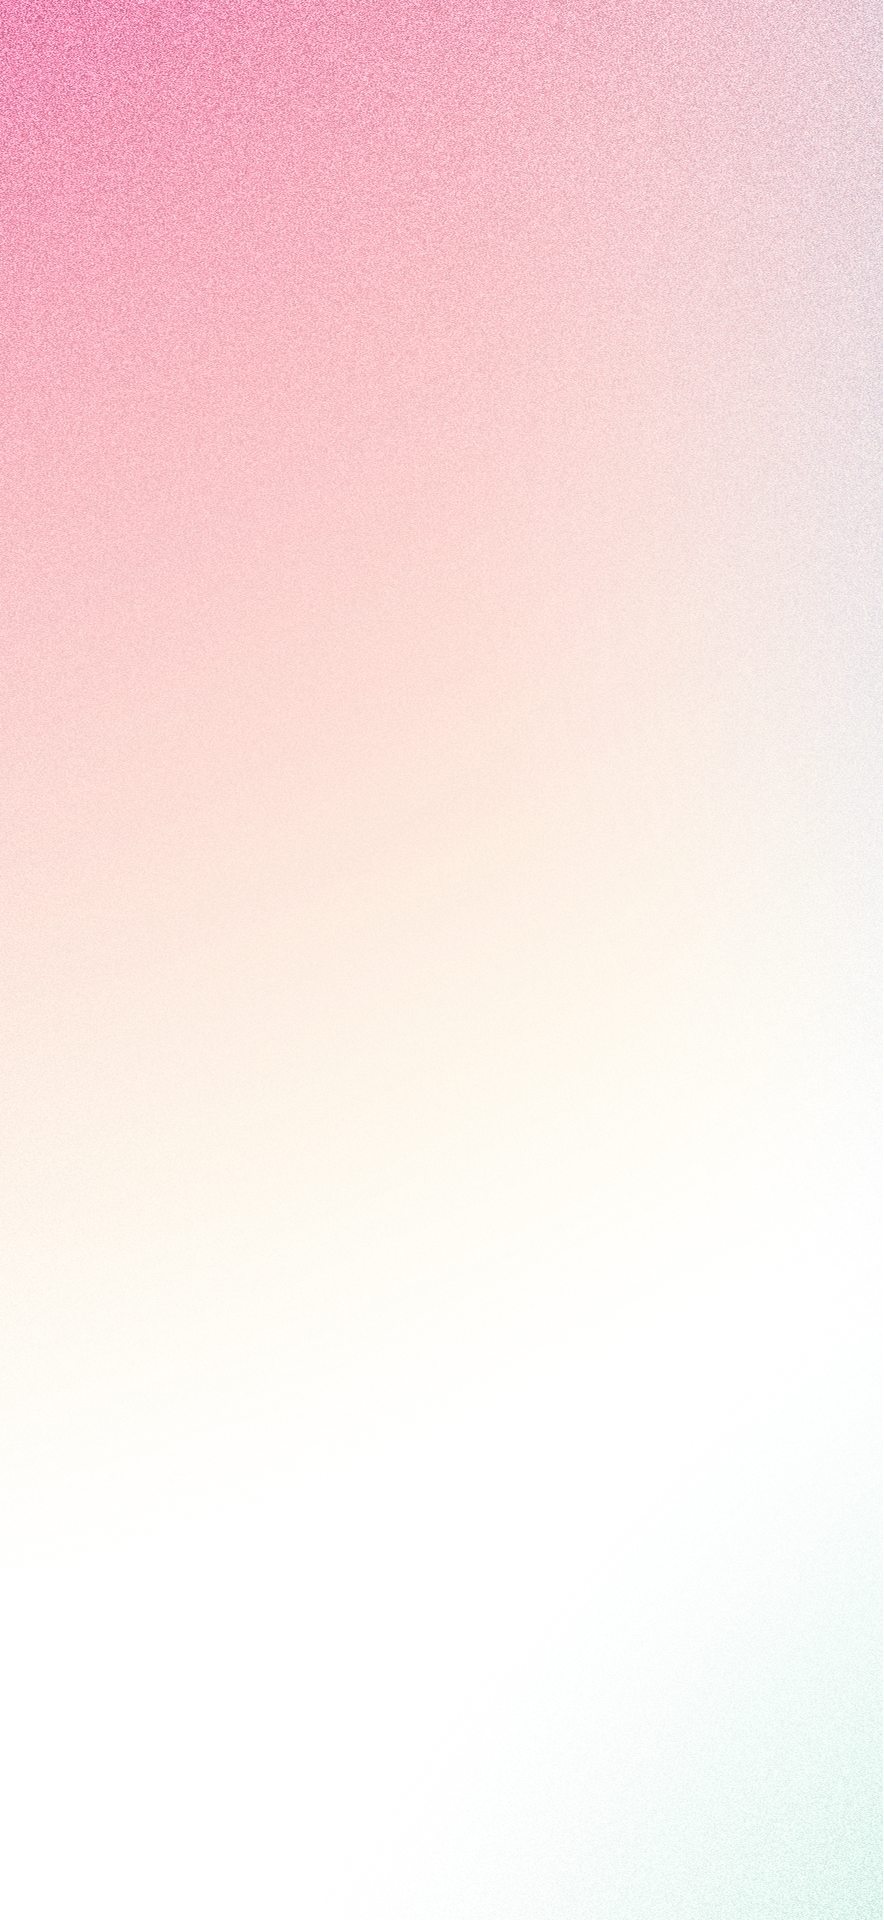
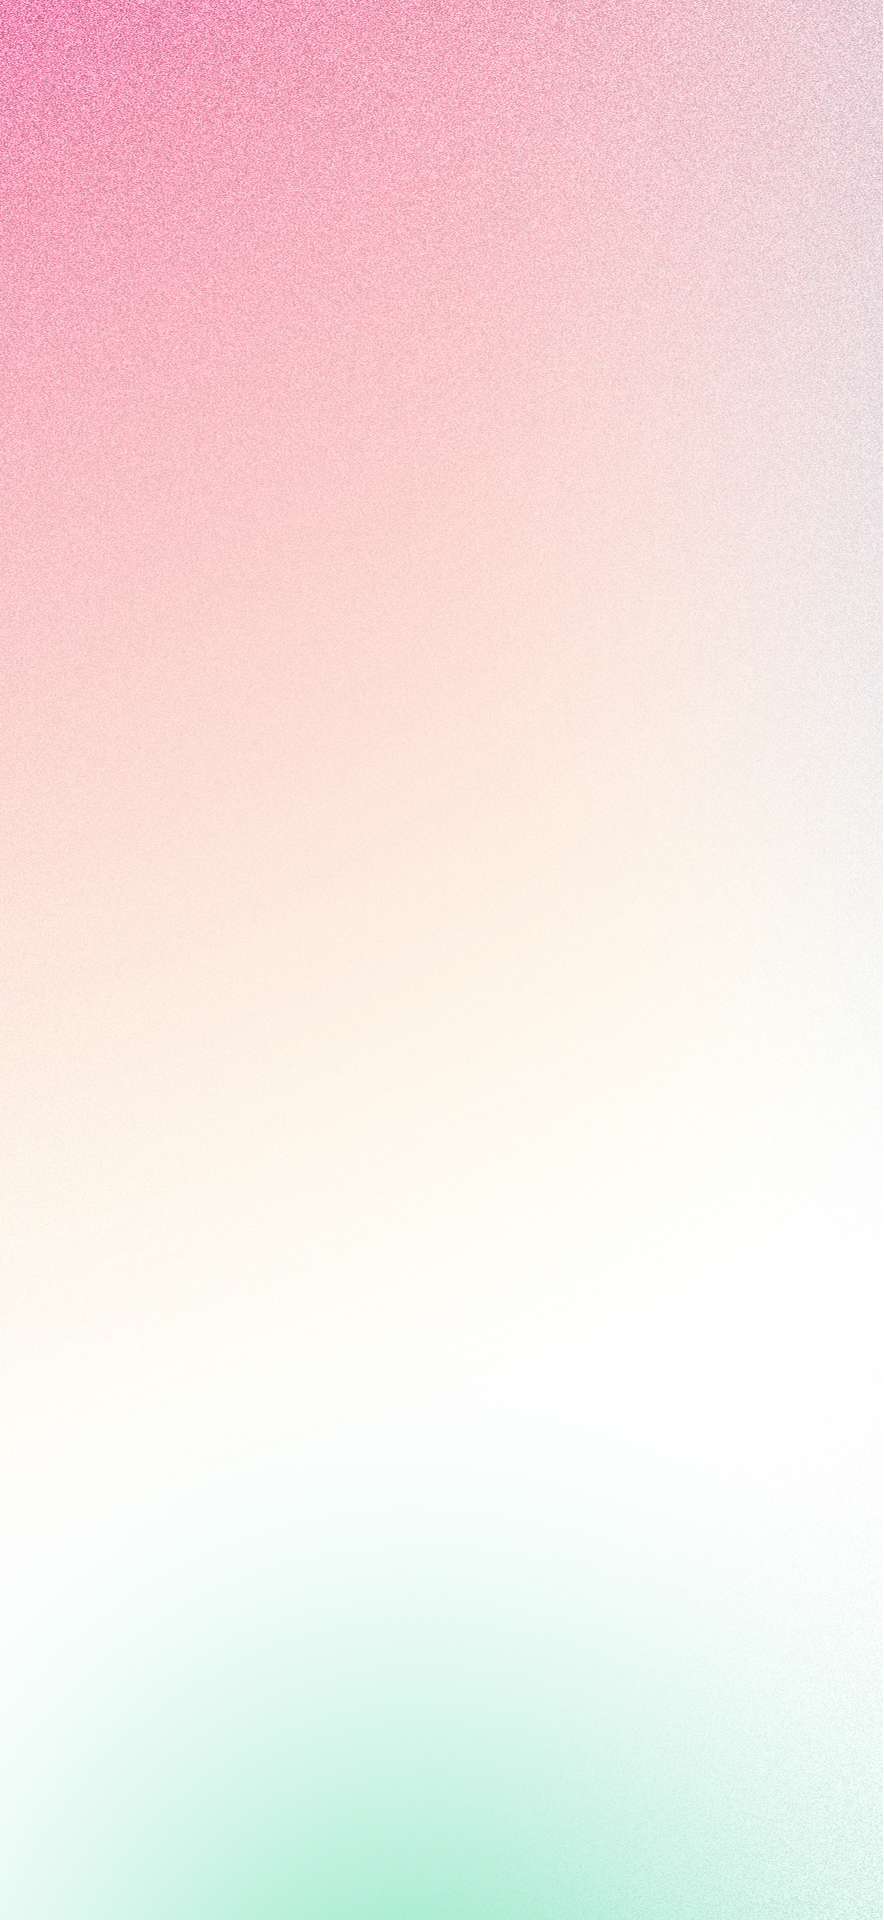
Update backgrounds and improve quick view modal styling
- Replace gradient with bg.png on loading screen
- Add bg.png overlay at 45% opacity on book page gradients
- Add empty state with glassmorphic box in bookshelf view
- Redesign quick view modal: 80% size, book page cover style
- Use blue glassmorphic style for Add book buttons (matching Follow)

Changed region(s): [[0.0305, 0.8438, 0.8552, 1.0]]

diff --git a/app/page.tsx b/app/page.tsx
@@ -9428,7 +9428,37 @@ export default function App() {
                     );
                   })()}
                 </div>
-                
+
+                {/* Empty state - show when no books */}
+                {booksForBookshelf.length === 0 && !viewingUserId ? (
+                  <div
+                    className="flex flex-col items-center justify-center text-center space-y-6 py-12 rounded-2xl"
+                    style={glassmorphicStyle}
+                  >
+                    <img src={getAssetPath("/logo.png")} alt="BOOK" className="object-contain mx-auto" />
+                    <button
+                      onClick={() => setIsAdding(true)}
+                      className="px-6 py-3 rounded-xl font-bold text-white active:scale-95 transition-all"
+                      style={{
+                        background: 'rgba(59, 130, 246, 0.85)',
+                        backdropFilter: 'blur(9.4px)',
+                        WebkitBackdropFilter: 'blur(9.4px)',
+                        border: '1px solid rgba(59, 130, 246, 0.3)',
+                      }}
+                    >
+                      Add first book
+                    </button>
+                  </div>
+                ) : booksForBookshelf.length === 0 && viewingUserId ? (
+                  <div
+                    className="flex flex-col items-center justify-center text-center space-y-6 py-12 rounded-2xl"
+                    style={glassmorphicStyle}
+                  >
+                    <img src={getAssetPath("/logo.png")} alt="BOOK" className="object-contain mx-auto" />
+                    <p className="text-sm text-slate-600">This user hasn't added any books yet.</p>
+                  </div>
+                ) : null}
+
                 {groupedBooksForBookshelf.map((group, groupIdx) => (
                   <motion.div
                     key={group.label || `group-${groupIdx}`}
@@ -12155,13 +12185,15 @@ export default function App() {
                 exit={{ scale: 0.9, opacity: 0 }}
                 transition={{ duration: 0.3, delay: 0.1 }}
                 onClick={(e) => e.stopPropagation()}
-                className="relative w-full max-w-md rounded-2xl shadow-2xl overflow-hidden pointer-events-auto z-10"
-                style={{ maxHeight: '88vh' }}
+                className="relative flex flex-col items-center pointer-events-auto z-10 p-4"
+                style={{ maxHeight: '80vh' }}
               >
-                {/* Book Cover */}
-                <div 
-                  className="relative w-full bg-gradient-to-br from-slate-200 to-slate-300 cursor-pointer"
-                  style={{ aspectRatio: '2/3', height: '66%' }}
+                {/* Book Cover - matching book page style */}
+                <div
+                  className="relative w-[272px] aspect-[2/3] overflow-hidden rounded-lg cursor-pointer"
+                  style={{
+                    boxShadow: '0 4px 20px rgba(0, 0, 0, 0.08), 0 2px 8px rgba(0, 0, 0, 0.04), 0 0 30px 5px rgba(255, 255, 255, 0.3)',
+                  }}
                   onClick={() => setViewingBookFromOtherUser(null)}
                 >
                   {viewingBookFromOtherUser.cover_url ? (
@@ -12171,11 +12203,11 @@ export default function App() {
                       className="w-full h-full object-cover"
                     />
                   ) : (
-                    <div className="w-full h-full flex items-center justify-center">
-                      <BookOpen size={64} className="text-slate-400" />
+                    <div className="w-full h-full flex items-center justify-center bg-gradient-to-br from-slate-200 to-slate-300">
+                      <BookOpen size={48} className="text-slate-400" />
                     </div>
                   )}
-                  
+
                   {/* Rating Display - Bottom Left Corner */}
                   {(() => {
                     const avgScore = calculateAvg(viewingBookFromOtherUser.ratings);
@@ -12194,62 +12226,65 @@ export default function App() {
                 </div>
 
                 {/* Book Info */}
-                <div className="p-4 space-y-3">
-                  <div>
-                    <h2 className="text-xl font-bold text-slate-950 mb-1.5">
-                      {viewingBookFromOtherUser.title}
-                    </h2>
-                    {viewingBookFromOtherUser.author && (
-                      <p className="text-base text-slate-950 mb-1.5">
-                        by {viewingBookFromOtherUser.author}
-                      </p>
-                    )}
-                    {viewingBookFromOtherUser.publish_year && (
-                      <p className="text-xs text-slate-950">
-                        Published: {viewingBookFromOtherUser.publish_year}
-                      </p>
-                    )}
-                  </div>
-
-                  {/* Add Button */}
-                  <button
-                    onClick={async () => {
-                      if (!user) return;
-                      
-                      // Prepare book metadata (exclude user-specific fields)
-                      const bookMeta: Omit<Book, 'id' | 'user_id' | 'created_at' | 'updated_at' | 'rating_writing' | 'rating_insights' | 'rating_flow' | 'rating_world' | 'rating_characters'> = {
-                        title: viewingBookFromOtherUser.title || '',
-                        author: viewingBookFromOtherUser.author || 'Unknown Author',
-                        publish_year: viewingBookFromOtherUser.publish_year || null,
-                        cover_url: viewingBookFromOtherUser.cover_url || null,
-                        wikipedia_url: viewingBookFromOtherUser.wikipedia_url || null,
-                        google_books_url: viewingBookFromOtherUser.google_books_url || null,
-                        genre: viewingBookFromOtherUser.genre || null,
-                        first_issue_year: viewingBookFromOtherUser.first_issue_year || null,
-                        summary: (viewingBookFromOtherUser as any).summary || null,
-                        notes: null, // Don't copy notes
-                        reading_status: null, // User will set this
-                      };
-
-                      // Close the modal first
-                      setViewingBookFromOtherUser(null);
-                      
-                      // Close bookshelf views
-                      setViewingUserId(null);
-                      setShowBookshelf(false);
-                      setShowBookshelfCovers(false);
-                      setShowNotesView(false);
-                      setShowAccountPage(false);
-                      
-                      // Add the book - handleAddBook will handle navigation
-                      await handleAddBook(bookMeta);
-                    }}
-                    className="w-full py-2.5 px-4 bg-blue-600 hover:bg-blue-700 text-white font-bold rounded-xl active:scale-95 transition-all flex items-center justify-center gap-2"
-                  >
-                    <BookOpen size={18} />
-                    Add to My Bookshelf
-                  </button>
+                <div className="mt-4 text-center space-y-2 max-w-[272px]">
+                  <h2 className="text-lg font-bold text-slate-950">
+                    {viewingBookFromOtherUser.title}
+                  </h2>
+                  {viewingBookFromOtherUser.author && (
+                    <p className="text-sm text-slate-800">
+                      {viewingBookFromOtherUser.author}
+                    </p>
+                  )}
+                  {viewingBookFromOtherUser.publish_year && (
+                    <p className="text-xs text-slate-600">
+                      {viewingBookFromOtherUser.publish_year}
+                    </p>
+                  )}
                 </div>
+
+                {/* Add Button */}
+                <button
+                  onClick={async () => {
+                    if (!user) return;
+
+                    // Prepare book metadata (exclude user-specific fields)
+                    const bookMeta: Omit<Book, 'id' | 'user_id' | 'created_at' | 'updated_at' | 'rating_writing' | 'rating_insights' | 'rating_flow' | 'rating_world' | 'rating_characters'> = {
+                      title: viewingBookFromOtherUser.title || '',
+                      author: viewingBookFromOtherUser.author || 'Unknown Author',
+                      publish_year: viewingBookFromOtherUser.publish_year || null,
+                      cover_url: viewingBookFromOtherUser.cover_url || null,
+                      wikipedia_url: viewingBookFromOtherUser.wikipedia_url || null,
+                      google_books_url: viewingBookFromOtherUser.google_books_url || null,
+                      genre: viewingBookFromOtherUser.genre || null,
+                      first_issue_year: viewingBookFromOtherUser.first_issue_year || null,
+                      summary: (viewingBookFromOtherUser as any).summary || null,
+                      notes: null, // Don't copy notes
+                      reading_status: null, // User will set this
+                    };
+
+                    // Close the modal first
+                    setViewingBookFromOtherUser(null);
+
+                    // Close bookshelf views
+                    setViewingUserId(null);
+                    setShowBookshelf(false);
+                    setShowBookshelfCovers(false);
+                    setShowNotesView(false);
+                    setShowAccountPage(false);
+
+                    // Add the book - handleAddBook will handle navigation
+                    await handleAddBook(bookMeta);
+                  }}
+                  className="mt-4 py-2.5 px-8 text-white font-bold rounded-xl active:scale-95 transition-all"
+                  style={{
+                    background: 'rgba(59, 130, 246, 0.85)',
+                    backdropFilter: 'blur(9.4px)',
+                    WebkitBackdropFilter: 'blur(9.4px)',
+                    border: '1px solid rgba(59, 130, 246, 0.3)',
+                  }}
+                >
+                  Add book
+                </button>
               </motion.div>
             </motion.div>
           )}

diff --git a/components/BookLoading.tsx b/components/BookLoading.tsx
@@ -2,6 +2,18 @@
 
 import React from 'react';
 
+// Helper function to get the correct path for static assets (handles basePath)
+function getAssetPath(path: string): string {
+  if (typeof window === 'undefined') return path;
+  const isLocalhost = window.location.hostname === 'localhost' || window.location.hostname === '127.0.0.1';
+  if (isLocalhost) return path;
+  const pathname = window.location.pathname;
+  if (pathname.startsWith('/book_review')) {
+    return `/book_review${path}`;
+  }
+  return path;
+}
+
 export function BookLoading() {
   return (
     <>
@@ -241,10 +253,13 @@ export function BookLoading() {
           }
         }
       `}</style>
-      <div 
+      <div
         className="fixed inset-0 flex items-center justify-center z-50"
         style={{
-          background: 'linear-gradient(to bottom, #C6DF8B 0%, #A1D821 30%, #FCCF47 100%)'
+          backgroundImage: `url(${getAssetPath('/bg.png')})`,
+          backgroundSize: 'cover',
+          backgroundPosition: 'center',
+          backgroundRepeat: 'no-repeat',
         }}
       >
         <div className="book-loading">
